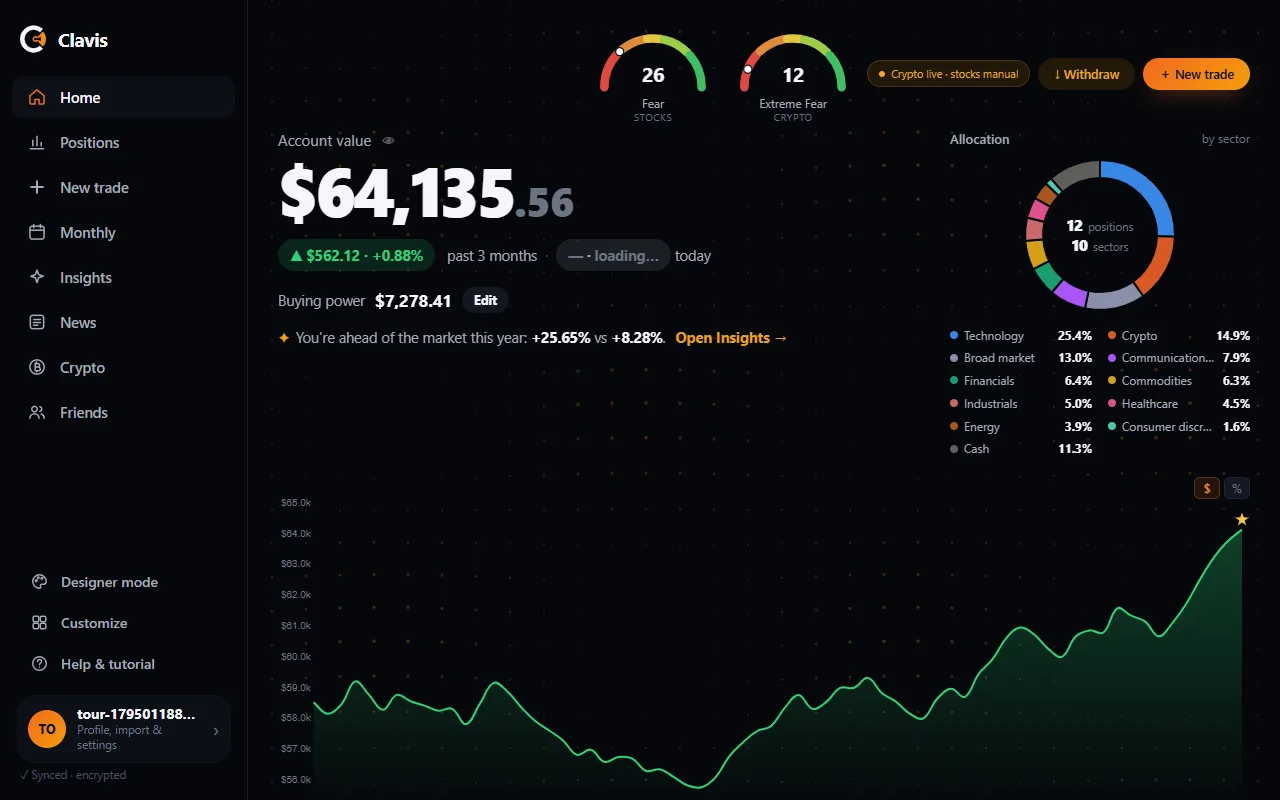
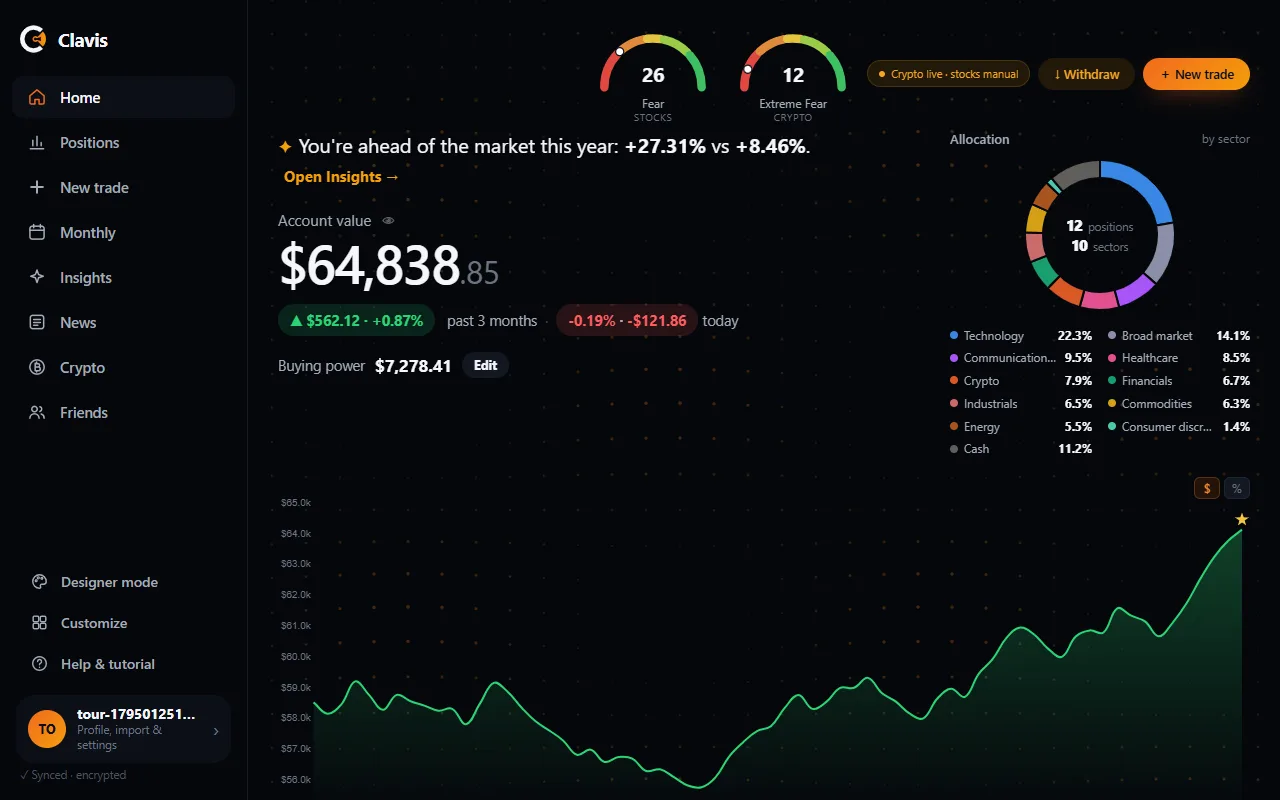
feat: Insights speaks as feedback; Home leads with the year vs the market
Insights now opens, after the summary, on Your feedback: what to keep doing,
what to work on and lessons from your data. Each finding says what it means
and gives a habit to try. Facts about your own process only, never what to
buy or sell (a test keeps the wording that way).

Home: "You're ahead of the market this year" moves above the balance and
grows; the balance is smaller and in a lighter weight.

diff --git a/src/core/insights.js b/src/core/insights.js
@@ -480,6 +480,90 @@ export function whyOf(group, rest, skip = []) {
   return best;
 }
 
+/* ── feedback ──
+ *
+ * Romy (November 2026): Insights should above all help the user become a
+ * better investor. So every finding is also read as feedback: what it means,
+ * and a habit to try. It is never advice on what to buy or sell: only facts
+ * about the person's own trades and the process behind them.
+ *
+ * Keyed by card id, then by tone: 'good' is something to keep doing, 'bad'
+ * something to work on, 'neutral' a lesson. A finding with no entry for its
+ * tone is left out of the feedback (it still has its card below).
+ */
+export const FEEDBACK = {
+  twin: {
+    good: ['Your picks, taken together, did better than the same money in the S&P 500 on the same days.', 'Note why you bought each winner. Over time it shows which of your reasons actually work.'],
+    bad: ['Over this period, an S&P 500 index fund would have done better with the same money on the same days.', 'Before a new trade, write one line on why you expect it to beat simply holding the index, and check it when you sell.'],
+  },
+  months: {
+    good: ['Beating the market in most months points to a steady process rather than one lucky trade.', 'Look at the months you lagged: did they share a cause, like a sector or a news event?'],
+    neutral: ['Beating the market some months and not others is normal; what counts is the total over a year.', 'Check whether your weaker months have something in common.'],
+  },
+  down: {
+    good: ['Your mix cushions the drops: it holds up better than the index when prices fall.', 'When you add a position, check it does not undo that cushion.'],
+    bad: ['The account holds more of what drops most when prices fall, so the falls hit it harder.', 'Look at how much of the account sits in the most volatile holdings, and whether that matches the risk you want to carry.'],
+    neutral: ['On red days your account behaves much like the index.', null],
+  },
+  after: {
+    good: ['Your exits have protected your money: you tend to sell before a fall.', 'Write down the rules you sell by, so they stay the same when markets get noisy.'],
+    bad: ['Part of the gain was left on the table: the stocks kept rising after you sold.', 'Before selling a winner, write the reason down. Later, check whether the reason held or it was nerves.'],
+    neutral: ['Your exits have neither cost nor saved much so far.', null],
+  },
+  mood: {
+    good: ['Buying when others are fearful has worked for you, a pattern long-term investors often describe.', 'Keep a short list of what you would buy on fearful days, so the decision is planned rather than rushed.'],
+    neutral: ['The market\'s mood when you buy has not changed your results much.', null],
+  },
+  emotion: {
+    good: ['Your process works best when you are calm and sure of the plan.', 'Rate your state of mind honestly before each trade. When it is low, waiting a day costs little.'],
+    neutral: ['So far your emotional trades have won as often as the calm ones.', 'Keep rating your state of mind: the pattern gets clearer with every trade.'],
+  },
+  holding: {
+    good: ['That is the discipline most investors find hardest.', 'Keep the same rule on every new position.'],
+    bad: ['Losses get time to grow while gains are taken early. It is one of the most common habits in investing.', 'Decide when you open a trade what would make you close it, and review any loser that has been open longer than your typical winner.'],
+    neutral: ['No sign of the most common habit in investing: holding on to losers.', null],
+  },
+  drawdown: {
+    bad: ['The account carries more risk than the index: its deepest drop was larger than the market\'s.', 'Ask yourself whether you could sit through that drop again. If not, the mix may hold more risk than you want.'],
+    neutral: ['Your biggest drop was in line with the market\'s.', null],
+  },
+  swings: {
+    good: ['So far the extra movement has come with a higher return.', 'Keep an eye on that trade-off: movement without the extra return is only risk.'],
+    bad: ['The extra movement has not come with a higher return.', 'See which holdings move the most, and whether each one earns its place.'],
+    neutral: ['Your risk is about the market\'s.', null],
+  },
+  news: {
+    good: ['Your holdings are less sensitive to jobs, inflation and Fed days.', null],
+    bad: ['Your holdings react strongly on jobs, inflation and Fed days.', 'Check the economic calendar in News before the big days, so the move does not catch you by surprise.'],
+    neutral: ['On big news days your account moves like the index.', null],
+  },
+  'account-weekday': {
+    bad: ['Losing on a day the market does not can point to rushed trades on that day.', 'Look at what you trade on that day: are those trades planned, or made in a hurry?'],
+    neutral: ['The differences between weekdays are small and often chance: a curiosity, not a rule.', null],
+  },
+};
+
+const KIND = { good: 'keep', bad: 'work', neutral: 'lesson' };
+
+/**
+ * The findings as feedback, in three lists: keep doing, work on, lessons.
+ * Only findings with enough data (a headline) are used; the biggest in money
+ * comes first within each list.
+ */
+export function feedbackFor(cards) {
+  const out = { keep: [], work: [], lessons: [] };
+  for (const c of cards) {
+    if (!c?.headline) continue;
+    const entry = FEEDBACK[c.id]?.[c.tone ?? 'neutral'];
+    if (!entry) continue;
+    const kind = KIND[c.tone ?? 'neutral'];
+    const list = kind === 'keep' ? out.keep : kind === 'work' ? out.work : out.lessons;
+    list.push({ id: c.id, headline: c.headline, meaning: entry[0], habit: entry[1], impact: c.impact ?? 0 });
+  }
+  for (const list of Object.values(out)) list.sort((a, b) => b.impact - a.impact);
+  return out;
+}
+
 /* ── the cards ──
  *
  * Every card: { id, group, topic, headline, matters, data, cause, how, tone,
@@ -1798,6 +1882,7 @@ export function analyse({
     year: year ?? { you: null, spx: null },
     summary: summaryOf({ year, twinCard, cards, picks, trades: trades.length, days: days.length }),
     standOut: picks,
+    feedback: feedbackFor(cards),
     // One main title: the level earned by collecting, and the style from how you trade.
     profile: { title, level: collection.level, collection, records: records(days, history, trades, weeks) },
     cards,

diff --git a/styles/clavis.css b/styles/clavis.css
@@ -573,3 +573,38 @@ body.landing-open{overflow:hidden}
   .pf-panel{left:0;right:0;bottom:0;width:auto;max-height:88vh;border-radius:26px 26px 0 0;padding-bottom:calc(18px + env(safe-area-inset-bottom))}
   .sidebar.tools-open .profile-btn{background:var(--input)}
 }
+
+/* Home, November 2026: the year against the market leads, above the balance;
+   the balance itself in a lighter, smaller figure. */
+#home .hero-analyst{margin:0 0 22px;font-size:20px;line-height:1.45;color:var(--text);max-width:720px}
+#home .hero-analyst b{font-weight:700}
+#home .hero-analyst-k{font-size:18px}
+#home .hero-analyst-link{font-size:15px}
+#home .hero-value{font-size:54px;font-weight:500;letter-spacing:-0.03em}
+#home .hv-cents{font-weight:400}
+@media (max-width:720px){
+  #home .hero-analyst{font-size:17px;margin-bottom:16px}
+  #home .hero-value{font-size:42px}
+}
+
+/* ── Insights: your feedback, in three columns ── */
+.ins-feedback{margin:6px 0 26px}
+.fb-lead{font-size:15px;color:var(--text2);line-height:1.55;margin:-4px 0 16px;max-width:760px}
+.fb-cols{display:grid;grid-template-columns:repeat(var(--fb-n,3),minmax(0,1fr));gap:16px}
+.fb-col{background:var(--panel);border-radius:var(--radius);padding:20px 20px 10px;--fb:var(--text3)}
+.fb-col.is-keep{--fb:var(--green)}
+.fb-col.is-work{--fb:var(--amber)}
+.fb-col.is-lesson{--fb:#86A8FF}
+.fb-head{display:flex;align-items:center;gap:10px}
+.fb-head h3{margin:0;font-size:18px;letter-spacing:-0.02em}
+.fb-dot{width:10px;height:10px;border-radius:50%;background:var(--fb);box-shadow:0 0 0 4px color-mix(in srgb,var(--fb) 20%,transparent)}
+.fb-n{margin-left:auto;font-size:12.5px;font-weight:700;color:var(--fb);background:color-mix(in srgb,var(--fb) 14%,transparent);border-radius:999px;padding:3px 10px}
+.fb-sub{font-size:13px;color:var(--text3);margin:6px 0 12px}
+.fb-col ul{list-style:none;margin:0;padding:0}
+.fb-item{padding:14px 0;border-top:1px solid var(--border)}
+.fb-item b{display:block;font-size:15px;line-height:1.4;color:var(--text)}
+.fb-item p{margin:6px 0 0;font-size:14px;line-height:1.55;color:var(--text2)}
+.fb-habit{display:flex;flex-direction:column;gap:3px;margin-top:10px!important;padding:10px 12px;border-radius:12px;background:color-mix(in srgb,var(--fb) 9%,var(--panel2))}
+.fb-habit span{font-size:11px;font-weight:800;letter-spacing:.12em;text-transform:uppercase;color:var(--fb)}
+.fb-empty{font-size:13.5px;color:var(--text3);margin:4px 0 14px}
+@media (max-width:1000px){ .fb-cols{grid-template-columns:1fr} }

diff --git a/src/ui/views/insights.js b/src/ui/views/insights.js
@@ -254,6 +254,34 @@ function summaryHtml(a) {
     </section>`;
 }
 
+/* ── 1b. your feedback: keep doing, work on, lessons ── */
+
+const FEEDBACK_COLS = [
+  ['keep', 'Keep doing', 'What is working: stay with it.', 'is-keep'],
+  ['work', 'Work on', 'Where your results are leaking.', 'is-work'],
+  ['lessons', 'Lessons from your data', 'What your trades teach so far.', 'is-lesson'],
+];
+
+function feedbackHtml(a) {
+  const f = a.feedback ?? { keep: [], work: [], lessons: [] };
+  const total = f.keep.length + f.work.length + f.lessons.length;
+  const item = (x) => `<li class="fb-item">
+      <b>${safe(x.headline)}</b>
+      <p>${escapeHtml(x.meaning)}</p>
+      ${x.habit ? `<p class="fb-habit"><span>Try this</span>${escapeHtml(x.habit)}</p>` : ''}
+    </li>`;
+  const col = ([key, title, sub, cls]) => `<div class="fb-col ${cls}">
+      <div class="fb-head"><span class="fb-dot"></span><h3>${title}</h3><span class="fb-n">${f[key].length}</span></div>
+      <p class="fb-sub">${sub}</p>
+      ${f[key].length ? `<ul>${f[key].map(item).join('')}</ul>` : '<p class="fb-empty">Nothing here yet. More trades will fill it in.</p>'}
+    </div>`;
+  return `<section class="ins-feedback">
+      <h2 class="ins-group">Your feedback</h2>
+      <p class="fb-lead">Facts from your own trades: what is working, what to work on, and what the data teaches. It describes your process; it never says what to buy or sell.</p>
+      ${total ? `<div class="fb-cols" style="--fb-n:${FEEDBACK_COLS.filter(([k]) => f[k].length).length}">${FEEDBACK_COLS.filter(([k]) => f[k].length).map(col).join('')}</div>` : '<p class="fb-empty">Your feedback appears once you have a few closed trades and some history.</p>'}
+    </section>`;
+}
+
 /* ── 2. what stands out ── */
 
 function standOutHtml(a) {
@@ -488,6 +516,7 @@ function draw() {
   const habits = a.cards.filter((c) => c.group === 'habits');
   const deeper = a.cards.filter((c) => c.group === 'deeper');
   body.innerHTML = `${summaryHtml(a)}
+    ${feedbackHtml(a)}
     ${standOutHtml(a)}
     <div class="ins-cols is-market">
       <div class="ins-col">${marketHtml(a)}</div>

diff --git a/index.html b/index.html
@@ -264,6 +264,10 @@
       <div class="hero">
         <div class="hero-top">
           <div class="hero-left">
+            <div class="hero-analyst" id="homeAnalyst" hidden>
+              <span class="hero-analyst-k">✦</span><span id="homeAnalystText"></span>
+              <button type="button" class="hero-analyst-link" onclick="show('insights')">Open Insights →</button>
+            </div>
             <div class="hero-label">Account value
               <button class="eye-btn" id="hideAmounts" onclick="toggleAmounts()" title="Hide amounts" aria-label="Hide amounts" aria-pressed="false">👁</button>
             </div>
@@ -277,10 +281,6 @@
               <span class="hero-cash-lbl">Buying power</span>
               <b id="cashDisplay">$0</b>
               <button class="cash-edit" onclick="editCash()" title="Set the cash in your broker">Edit</button>
-            </div>
-            <div class="hero-analyst" id="homeAnalyst" hidden>
-              <span class="hero-analyst-k">✦</span><span id="homeAnalystText"></span>
-              <button type="button" class="hero-analyst-link" onclick="show('insights')">Open Insights →</button>
             </div>
           </div>
           <div class="alloc" id="allocCard" tabindex="0" role="button" aria-haspopup="dialog" aria-label="Allocation — hover or press Enter to expand">

diff --git a/src/ui/views/tourShots.js b/src/ui/views/tourShots.js
@@ -10,14 +10,14 @@ export const SHOTS = {
     "rects": {
       "account": [
         278,
-        154,
+        234,
         644,
-        71
+        57
       ],
       "today": [
         556,
-        239,
-        114,
+        304,
+        142,
         32
       ],
       "graph": [
@@ -190,13 +190,13 @@ export const SHOTS = {
       ],
       "dca": [
         296,
-        556,
+        553,
         61,
         29
       ],
       "edit": [
         363,
-        556,
+        553,
         61,
         29
       ],
@@ -280,7 +280,7 @@ export const SHOTS = {
       ],
       "standout": [
         278,
-        393,
+        1367,
         972,
         500
       ],
